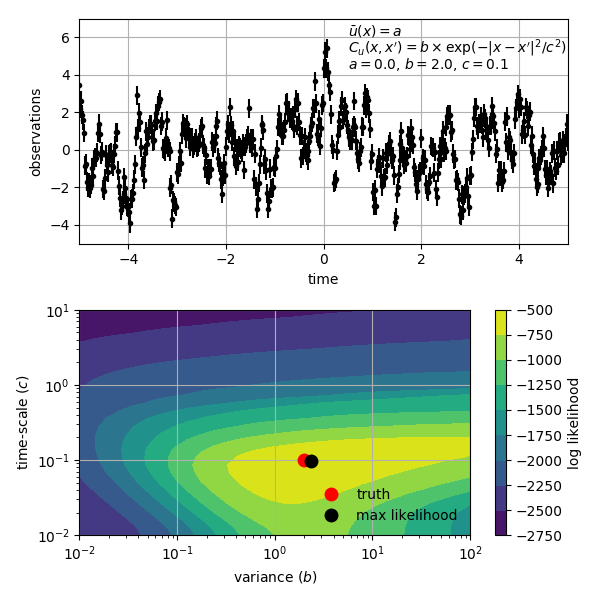
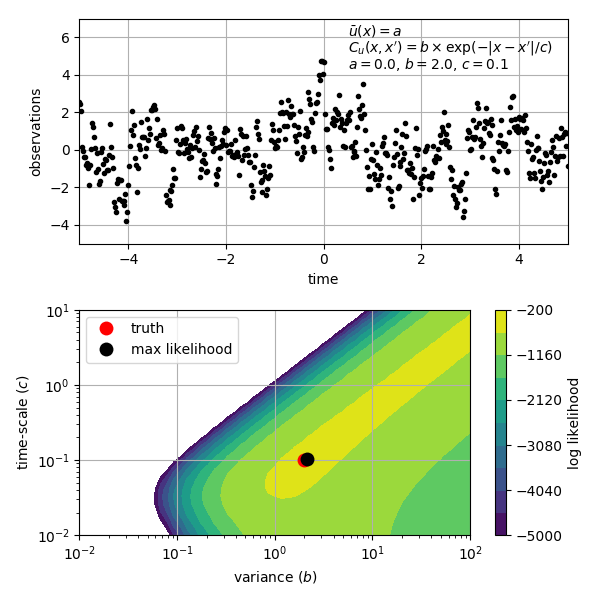
added more

diff --git a/docs/scripts/gauss.f.py b/docs/scripts/gauss.f.py
@@ -10,19 +10,15 @@ from scipy.optimize import fmin
 import rbf
 np.random.seed(3)
 
-n = 500 # number of observations
-t = np.linspace(-5.0,5.0,n)[:,None] # observation points
-sigma = 0.5*np.ones(n) # observation noise 
-
-# True signal which we want to recover. This is a squared exponential 
-# function with mean=0.0, variance=2.0, and time-scale=0.1. For 
-# graphical purposes, we will only estimate the variance and 
-# time-scale.
+# True signal which we want to recover. This is a exponential function
+# with mean=0.0, variance=2.0, and time-scale=0.1. For graphical
+# purposes, we will only estimate the variance and time-scale.
 a,b,c = 0.0,2.0,0.1
-gp_true  = rbf.gauss.gpse((a,b,c))
+gp  = rbf.gauss.gpexp((a,b,c))
 
-# create observations with added noise
-d = gp_true.draw_sample(t) + np.random.normal(0.0,sigma)
+n = 500 # number of observations
+time = np.linspace(-5.0,5.0,n)[:,None] # observation points
+data = gp.draw_sample(time) # signal which we want to describe
 
 # find the optimal hyperparameter with a brute force grid search
 b_search = 10**np.linspace(-2,2,30)
@@ -30,8 +26,8 @@ c_search = 10**np.linspace(-2,1,30)
 likelihoods = np.zeros((30,30))
 for i,b_test in enumerate(b_search): 
   for j,c_test in enumerate(c_search): 
-    gp = rbf.gauss.gpse((0.0,b_test,c_test))
-    likelihoods[i,j] = gp.likelihood(t,d,sigma=sigma)
+    gp = rbf.gauss.gpexp((0.0,b_test,c_test))
+    likelihoods[i,j] = gp.likelihood(time,data)
 
 # find the optimal hyperparameters with a positively constrained 
 # downhill simplex method
@@ -44,26 +40,26 @@ def fmin_pos(func,x0,*args,**kwargs):
   out = np.exp(out)
   return out
 
-def objective(x,t,d,sigma):
+def objective(x,t,d):
   '''objective function to be minimized'''
-  gp  = rbf.gauss.gpse((0.0,x[0],x[1]))
-  return -gp.likelihood(t,d,sigma=sigma)
+  gp  = rbf.gauss.gpexp((0.0,x[0],x[1]))
+  return -gp.likelihood(t,d)
 
 # maximum likelihood estimate
-b_mle,c_mle = fmin_pos(objective,[1.0,1.0],args=(t,d,sigma))
+b_mle,c_mle = fmin_pos(objective,[1.0,1.0],args=(time,data))
 
 # plot the results
 fig,axs = plt.subplots(2,1,figsize=(6,6))
 ax = axs[0]
 ax.grid(True)
-ax.errorbar(t[:,0],d,sigma,fmt='k.',capsize=0,label='observations')
+ax.plot(time[:,0],data,'k.',label='observations')
 ax.set_xlim((-5.0,5.0))
 ax.set_ylim((-5.0,7.0))
 ax.set_xlabel('time',fontsize=10)
 ax.set_ylabel('observations',fontsize=10)
 ax.tick_params(labelsize=10)
 ax.text(0.55,0.925,r"$\bar{u}(x) = a$",transform=ax.transAxes)
-ax.text(0.55,0.85,r"$C_u(x,x') = b\times\exp(-|x - x'|^2/c^2)$",transform=ax.transAxes)
+ax.text(0.55,0.85,r"$C_u(x,x') = b\times\exp(-|x - x'|/c)$",transform=ax.transAxes)
 ax.text(0.55,0.775,r"$a = %s$, $b = %s$, $c = %s$" % (a,b,c),transform=ax.transAxes)
            
 ax = axs[1]
@@ -72,11 +68,11 @@ ax.set_xscale('log')
 ax.set_xlabel('variance ($b$)',fontsize=10)
 ax.set_ylabel('time-scale ($c$)',fontsize=10)
 ax.tick_params(labelsize=10)
-p = ax.contourf(b_search,c_search,likelihoods.T,cmap='viridis')
+p = ax.contourf(b_search,c_search,likelihoods.T,np.linspace(-5000.0,-200.0,11),cmap='viridis')
 cbar = plt.colorbar(p,ax=ax)
 ax.plot([b],[c],'ro',markersize=10,mec='none',label='truth')
 ax.plot([b_mle],[c_mle],'ko',markersize=10,mec='none',label='max likelihood')
-ax.legend(fontsize=10,frameon=False,loc=4,numpoints=1)
+ax.legend(fontsize=10,loc=2)
 cbar.set_label('log likelihood',fontsize=10)
 cbar.ax.tick_params(labelsize=10)
 ax.grid(True)
